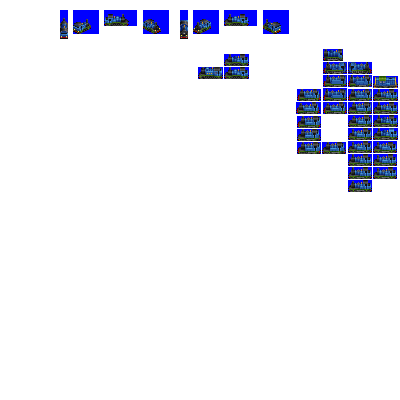
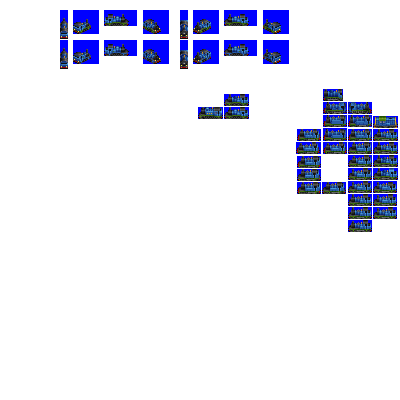
Change: additional banger blue livery for Lark

Changed region(s): [[0.72, 0.12, 1.0, 0.6], [0.45, 0.09, 0.72, 0.3], [0.15, 0.09, 0.42, 0.18]]

diff --git a/src/vehicles/lark.py b/src/vehicles/lark.py
@@ -16,9 +16,8 @@ def main(roster_id):
         fixed_run_cost_points=100,  # substantial cost bonus so it can make money
         random_reverse=True,
         gen=1,
-        additional_liveries=[],
+        additional_liveries=["BANGER_BLUE"],
         sprites_complete=True,
-        sprites_additional_liveries_needed=True, # banger blue?
     )
 
     consist.add_unit(type=SteamEngineUnit, weight=35, vehicle_length=6, spriterow_num=0)
